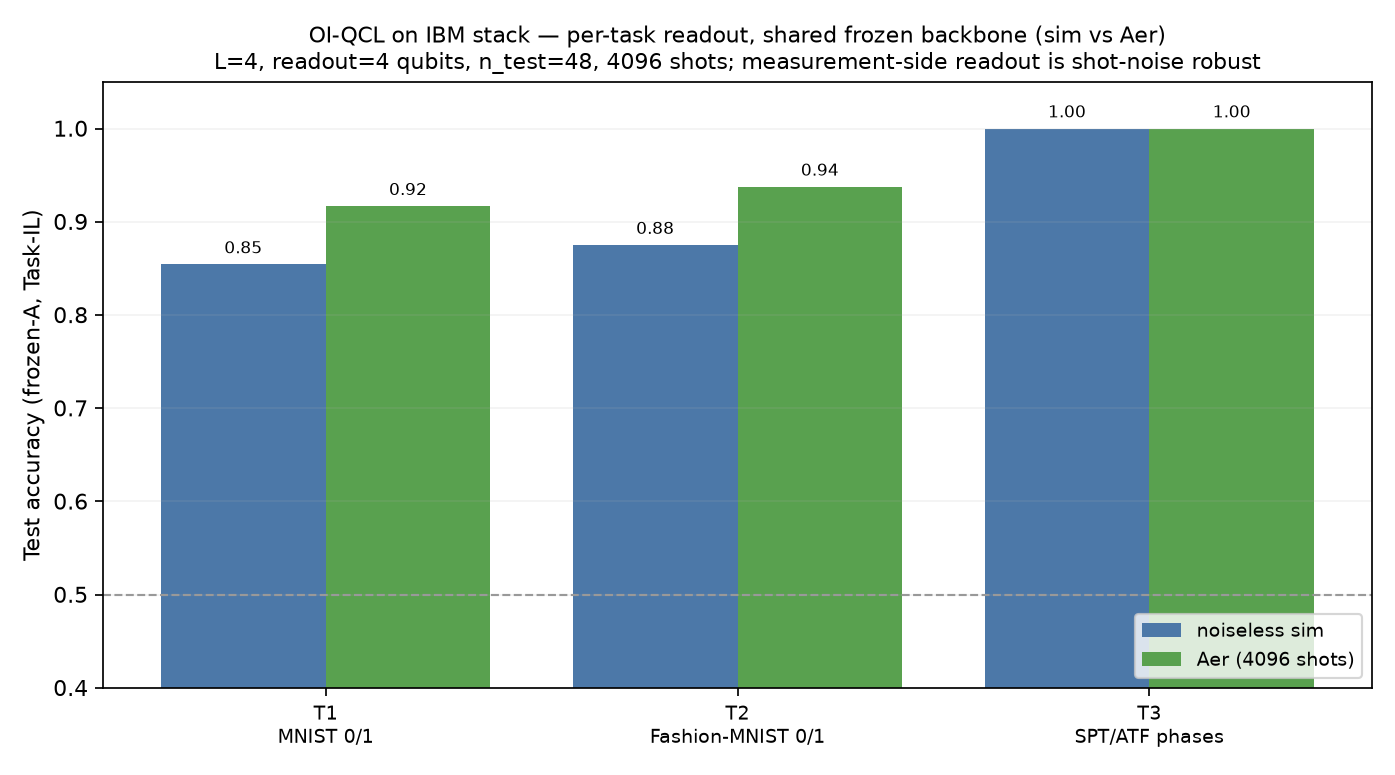
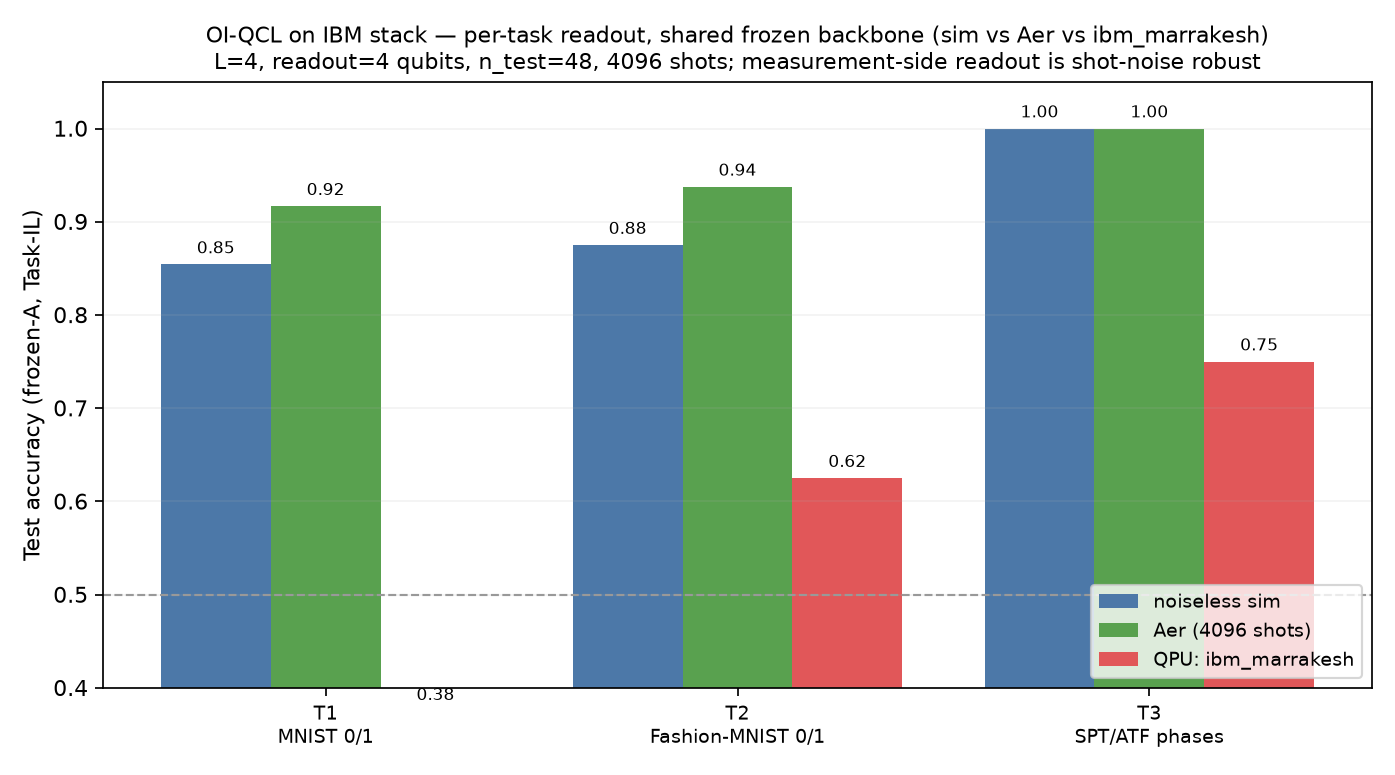
results(e014): continual learning on REAL IBM QPU (ibm_marrakesh) — OI-QCL vs QEWC
Both run on ibm_marrakesh (156q Heron), 3 tasks, 24 test/task, 4096 shots, 1 seed.
OI-QCL (sim training, per-task heads learned from QPU probs, old heads frozen): QPU
MNIST 0.875 / Fashion 0.917 / SPT 1.000, avg 0.931 -- matches sim (no hardware loss).
QEWC (shared 2-Z softmax, QFI-consolidated theta): QPU 0.375 / 0.625 / 0.750, avg 0.583 --
forgets T1 AND its QFI (pure-state) mis-anchors under real noise. On real hardware the
OI-QCL lead WIDENS to +0.35 (vs +0.14 sim). Per-task numbers noisy at n_test=24/1 seed;
the average is the signal. Adds plot_e014_hardware_compare.py -> figures/e014_hardware_compare.png.

diff --git a/scripts/plot_e014_hardware_compare.py b/scripts/plot_e014_hardware_compare.py
@@ -1,0 +1,68 @@
+"""OI-QCL vs QEWC on real IBM hardware — per-task + average accuracy (frozen-A vs QFI theta)."""
+
+from __future__ import annotations
+
+import json
+from pathlib import Path
+
+import matplotlib
+import numpy as np
+
+matplotlib.use("Agg")
+import matplotlib.pyplot as plt  # noqa: E402
+
+ROOT = Path(__file__).resolve().parents[1]
+FIG = ROOT / "figures"
+KEYS = ("task1", "task2", "task3")
+
+
+def main() -> None:
+    o = json.loads((ROOT / "results/e014_hardware_ibm_marrakesh_alltasks.json").read_text())
+    q = json.loads((ROOT / "results/e014_hardware_ibm_marrakesh_qewc_alltasks.json").read_text())
+    backend = o["backend"]
+    shots = o["config"]["shots"]
+    n_test = o["config"]["n_test"]
+    names = [o["per_task"][k]["name"] for k in KEYS]
+    oi = [o["per_task"][k]["backend_acc"] for k in KEYS]
+    qe = [q["per_task"][k]["backend_acc"] for k in KEYS]
+    oi.append(float(np.mean(oi)))
+    qe.append(float(np.mean(qe)))
+    labels = [f"T{i+1}\n{n}" for i, n in enumerate(names)] + ["average"]
+
+    fig, ax = plt.subplots(figsize=(9.5, 5))
+    x = np.arange(len(labels))
+    w = 0.38
+    ax.bar(x - w / 2, oi, w, color="#59A14F", label="OI-QCL (measurement-side)")
+    ax.bar(x + w / 2, qe, w, color="#4C78A8", label="QEWC (θ-protection)")
+    for xi, (a, b) in enumerate(zip(oi, qe)):
+        ax.text(xi - w / 2, a + 0.012, f"{a:.2f}", ha="center", fontsize=8.5,
+                weight="bold" if xi == len(labels) - 1 else "normal")
+        ax.text(xi + w / 2, b + 0.012, f"{b:.2f}", ha="center", fontsize=8.5,
+                weight="bold" if xi == len(labels) - 1 else "normal")
+    ax.axhline(0.5, ls="--", color="0.6", lw=1)
+    ax.text(len(labels) - 0.5, 0.51, "binary chance", ha="right", va="bottom", fontsize=8, color="0.4")
+    ax.axvline(len(KEYS) - 0.5, color="0.8", lw=1)
+    ax.set_xticks(x, labels, fontsize=9)
+    ax.set_ylabel("Test accuracy on QPU (Task-IL)")
+    ax.set_ylim(0.2, 1.05)
+    ax.grid(axis="y", alpha=0.15)
+    ax.legend(loc="lower left", fontsize=9)
+    ax.set_title(f"Continual learning on real IBM hardware ({backend}) — OI-QCL vs QEWC\n"
+                 f"avg {oi[-1]:.2f} vs {qe[-1]:.2f} (gap +{oi[-1]-qe[-1]:.2f}); QEWC forgets T1 "
+                 "and its QFI mis-anchors under noise\n"
+                 f"n_test={n_test}/task, {shots} shots, 1 seed — per-task numbers are noisy; "
+                 "the average is the signal", fontsize=9.5)
+    fig.tight_layout()
+
+    FIG.mkdir(exist_ok=True)
+    out = FIG / "e014_hardware_compare.png"
+    fig.savefig(out, dpi=155)
+    (ROOT / "results/e014_hardware_compare_figure_provenance.json").write_text(json.dumps(
+        {"figure": out.name, "backend": backend,
+         "oiqcl": "results/e014_hardware_ibm_marrakesh_alltasks.json",
+         "qewc": "results/e014_hardware_ibm_marrakesh_qewc_alltasks.json"}, indent=2) + "\n")
+    print(f"wrote {out.relative_to(ROOT)}")
+
+
+if __name__ == "__main__":
+    main()
